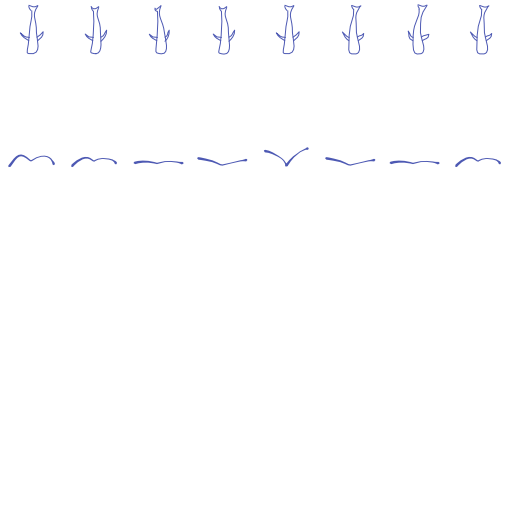
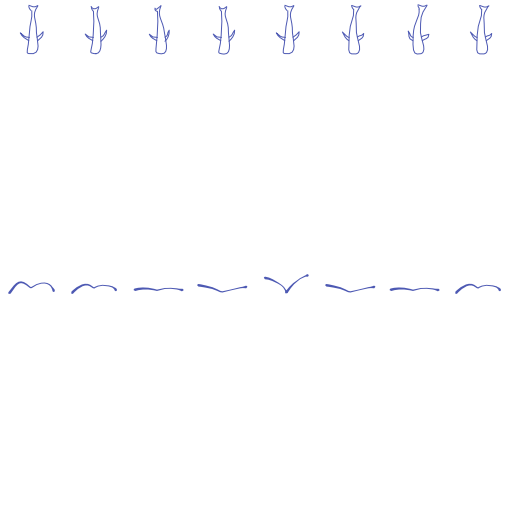
Add space for more whale animations

diff --git a/src/game/spawn/creature.rs b/src/game/spawn/creature.rs
@@ -46,7 +46,7 @@ fn spawn_creature(
     image_handles: Res<HandleMap<ImageKey>>,
     mut texture_atlas_layouts: ResMut<Assets<TextureAtlasLayout>>,
 ) {
-    let layout = TextureAtlasLayout::from_grid(UVec2::splat(64), 8, 3, None, None);
+    let layout = TextureAtlasLayout::from_grid(UVec2::splat(64), 8, 5, None, None);
     let texture_atlas_layout = texture_atlas_layouts.add(layout);
     let player_animation = match _trigger.event().creature_type {
         CreatureType::Bird => PlayerAnimation::bird(),

diff --git a/src/game/movement.rs b/src/game/movement.rs
@@ -117,7 +117,7 @@ fn despawn_out_of_view(
             || position.y < -half_size.y - WINDOW_DESPAWN_BUFFER
             || position.y > half_size.y + WINDOW_DESPAWN_BUFFER
         {
-            info!("Despawning {entity:?}");
+            // info!("Despawning {entity:?}");
             commands.entity(entity).despawn();
         }
     }

diff --git a/src/game/animation.rs b/src/game/animation.rs
@@ -13,7 +13,7 @@ use crate::AppSet;
 
 /// The frame number where the whale starts to turn
 const TURNING_START_FRAME: usize = 0;
-const BIRD_START_FRAME: usize = 16;
+const BIRD_START_FRAME: usize = 32;
 
 pub(super) fn plugin(app: &mut App) {
     // Animate and play sound effects based on controls.
